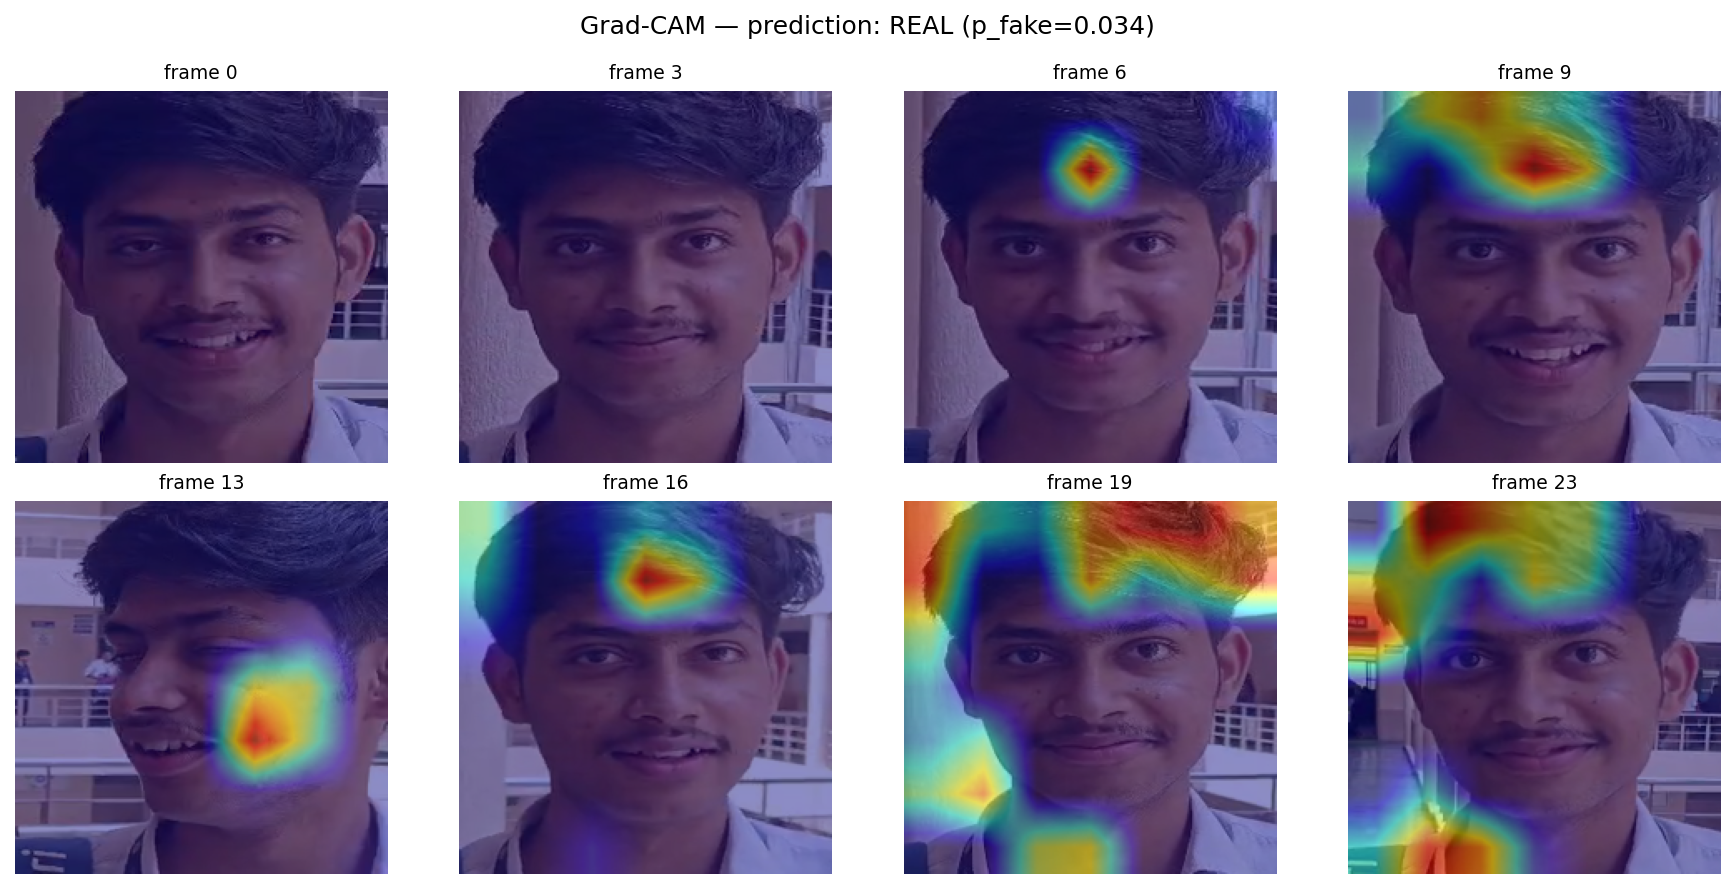
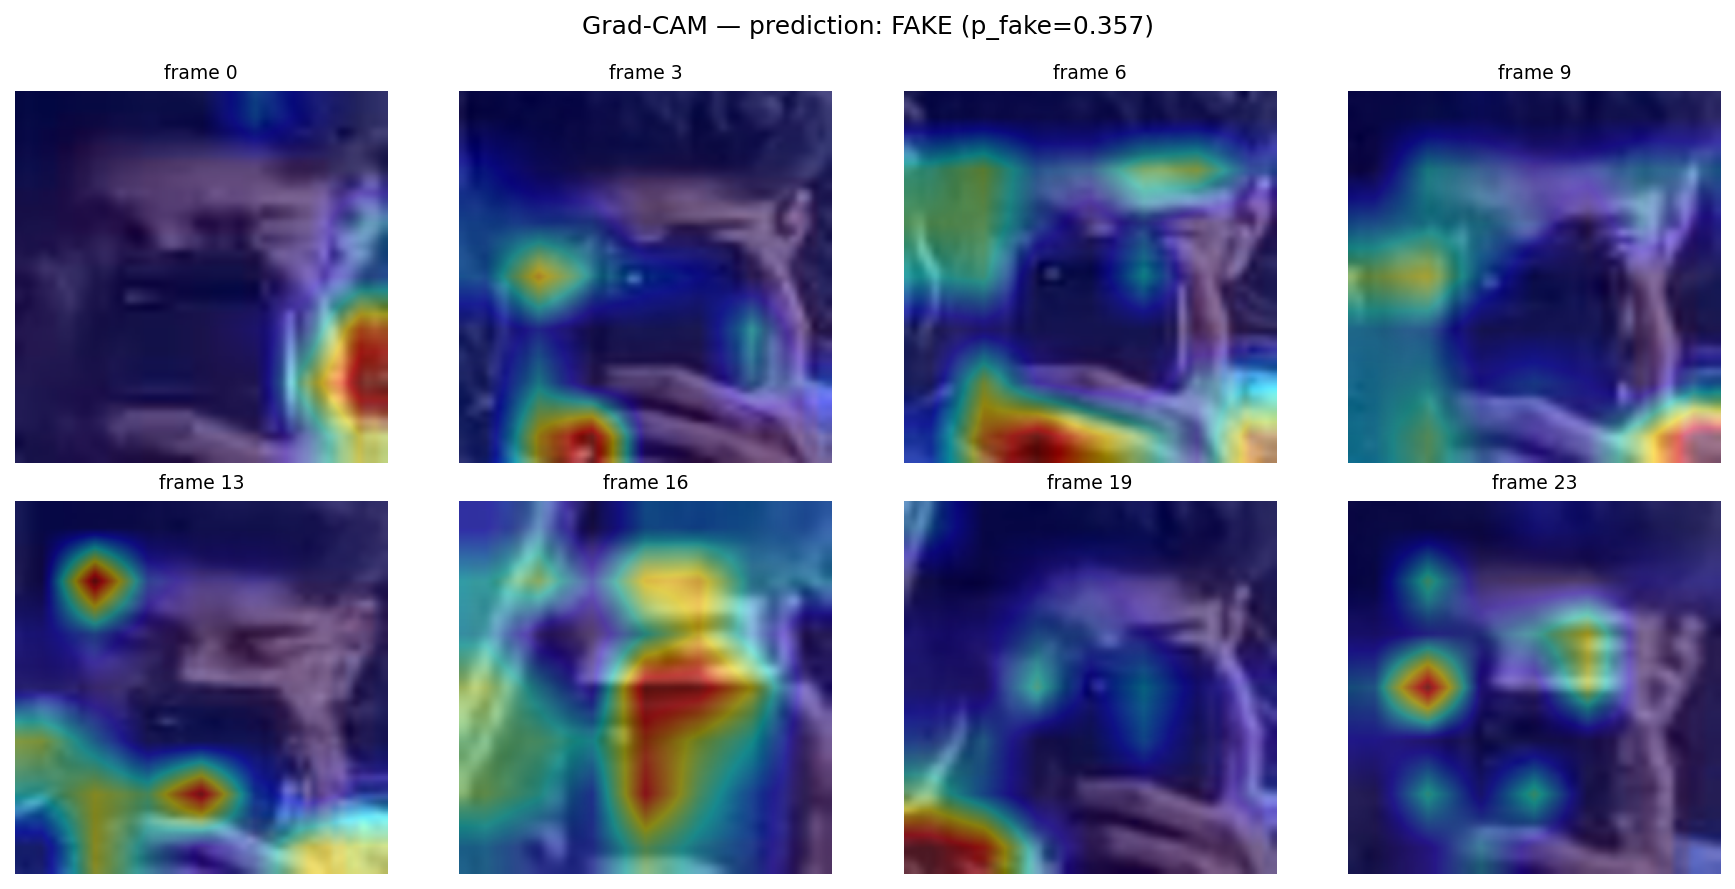
Remove texture-based occlusion check (unreliable on real footage); keep confidence+geometry quality gate

diff --git a/deepfake_video_predict.py b/deepfake_video_predict.py
@@ -117,22 +117,79 @@ def extract_frames(video_path, max_raw_frames=150):
     return frames
 
 
-def detect_and_crop_faces(frames, detector, margin=0.25):
-    """Run MTCNN on each frame, return cropped+aligned face images (PIL).
-    Frames with no detected face are skipped."""
+MIN_DETECTION_CONFIDENCE = 0.95  # MTCNN confidence below this often means a partial/occluded/unclear face
+MIN_QUALITY_FRAME_FRACTION = 0.5  # at least this fraction of extracted frames must be high-quality
+
+
+def _landmarks_geometrically_plausible(landmarks, x1, y1, x2, y2):
+    """Check that MTCNN's 5 landmarks (left_eye, right_eye, nose, mouth_left,
+    mouth_right) form a geometrically sensible face, not just 'somewhere inside
+    the box'. Catches severe distortions (e.g. face mostly turned away, box
+    covering mostly non-face background).
+
+    Known limitation: MTCNN is trained to guess a plausible face shape even
+    under partial occlusion (e.g. a phone covering the nose/mouth while eyes
+    stay visible), so this check alone will NOT catch that kind of occlusion —
+    the geometry still looks normal because MTCNN infers a reasonable position
+    for the hidden landmarks from the visible ones. A pixel-texture-based check
+    was tried and found unreliable here too (occluding objects like phones have
+    plenty of their own visual detail — reflections, bezels, camera lenses —
+    that a generic sharpness measure can't distinguish from real facial detail).
+    Robust occlusion detection would need a dedicated face-quality model; this
+    is noted as a limitation rather than solved here."""
+    left_eye, right_eye, nose, mouth_left, mouth_right = landmarks
+    box_w, box_h = (x2 - x1), (y2 - y1)
+    if box_w <= 0 or box_h <= 0:
+        return False
+
+    tol = 0.05 * box_h
+    eyes_y = (left_eye[1] + right_eye[1]) / 2
+    mouth_y = (mouth_left[1] + mouth_right[1]) / 2
+    if not (eyes_y < nose[1] + tol and nose[1] < mouth_y + tol):
+        return False
+    if not (left_eye[0] < right_eye[0] and mouth_left[0] < mouth_right[0]):
+        return False
+    eye_dist = abs(right_eye[0] - left_eye[0])
+    if not (0.15 * box_w <= eye_dist <= 0.75 * box_w):
+        return False
+    vertical_spread = mouth_y - eyes_y
+    if not (0.10 * box_h <= vertical_spread <= 0.75 * box_h):
+        return False
+    return True
+
+
+def detect_and_crop_faces(frames, detector, margin=0.25, min_confidence=MIN_DETECTION_CONFIDENCE, debug=False):
+    """Run MTCNN on each frame, return cropped+aligned face images (PIL) along with
+    a quality report combining detection confidence and landmark geometry. See
+    _landmarks_geometrically_plausible's docstring for a known limitation: this
+    does not reliably catch partial occlusions where MTCNN can still infer a
+    plausible landmark layout from visible features."""
     face_crops = []
-    for frame in frames:
+    quality_flags = []
+
+    for frame_num, frame in enumerate(frames):
         img = Image.fromarray(frame)
-        boxes, probs = detector.detect(img)
+        boxes, probs, landmarks = detector.detect(img, landmarks=True)
         if boxes is None or len(boxes) == 0:
             continue
 
-        # Use the highest-confidence detected face
         best_idx = int(np.argmax(probs))
         x1, y1, x2, y2 = boxes[best_idx]
+        confidence = float(probs[best_idx])
+        frame_landmarks = landmarks[best_idx] if landmarks is not None else None
 
-        # Add a margin around the tight box so the crop isn't overly tight (matches
-        # typical FaceForensics++-style face-crop conventions)
+        is_high_quality = confidence >= min_confidence
+        geom_ok = None
+        if frame_landmarks is not None:
+            geom_ok = _landmarks_geometrically_plausible(frame_landmarks, x1, y1, x2, y2)
+            is_high_quality = is_high_quality and geom_ok
+        else:
+            is_high_quality = False
+
+        if debug and frame_num < 15:  # print details for the first 15 detected frames only
+            print(f"  [debug] frame {frame_num}: conf={confidence:.4f} geom_ok={geom_ok} "
+                  f"-> quality={is_high_quality}")
+
         w, h = x2 - x1, y2 - y1
         x1 = max(0, x1 - margin * w)
         y1 = max(0, y1 - margin * h)
@@ -141,22 +198,32 @@ def detect_and_crop_faces(frames, detector, margin=0.25):
 
         crop = img.crop((x1, y1, x2, y2))
         face_crops.append(crop)
+        quality_flags.append(is_high_quality)
 
-    return face_crops
+    return face_crops, quality_flags
 
 
-def sample_sequence(face_crops, seq_len=SEQ_LEN):
+def sample_sequence(face_crops, quality_flags, seq_len=SEQ_LEN):
     """Match the training-time sampling strategy: evenly spaced if enough frames,
-    cyclic repeat-padding if too few."""
-    n = len(face_crops)
-    if n >= seq_len:
-        indices = np.linspace(0, n - 1, seq_len).astype(int)
+    cyclic repeat-padding if too few. Prefers high-quality (unoccluded-looking)
+    frames when there are enough of them, since a sequence padded out with
+    low-quality/occluded frames would degrade the prediction unnecessarily."""
+    high_quality_indices = [i for i, q in enumerate(quality_flags) if q]
+
+    if len(high_quality_indices) >= seq_len:
+        pool = high_quality_indices
     else:
-        indices = np.array([i % n for i in range(seq_len)])
-    return [face_crops[i] for i in indices]
+        pool = list(range(len(face_crops)))  # not enough high-quality frames, use all
+
+    n = len(pool)
+    if n >= seq_len:
+        chosen = np.linspace(0, n - 1, seq_len).astype(int)
+    else:
+        chosen = np.array([i % n for i in range(seq_len)])
+    return [face_crops[pool[i]] for i in chosen]
 
 
-def predict(video_path, model_path, threshold=DEFAULT_THRESHOLD, device=None):
+def predict(video_path, model_path, threshold=DEFAULT_THRESHOLD, device=None, debug=False):
     device = device or ("cuda" if torch.cuda.is_available() else "cpu")
     print(f"Using device: {device}")
 
@@ -175,18 +242,30 @@ def predict(video_path, model_path, threshold=DEFAULT_THRESHOLD, device=None):
     print(f"  -> {len(raw_frames)} raw frames extracted")
 
     print("Detecting and cropping faces...")
-    face_crops = detect_and_crop_faces(raw_frames, detector)
-    print(f"  -> {len(face_crops)} frames with a detected face")
+    face_crops, quality_flags = detect_and_crop_faces(raw_frames, detector, debug=debug)
+    n_detected = len(face_crops)
+    n_high_quality = sum(quality_flags)
+    print(f"  -> {n_detected} frames with a detected face")
+    print(f"  -> {n_high_quality} of those are high-quality (clear, unoccluded) detections")
 
-    if len(face_crops) == 0:
+    if n_detected == 0:
         print("\nERROR: No faces detected in this video. Cannot make a prediction.")
         print("Check that the video contains a visible, front-facing person.")
         sys.exit(1)
-    if len(face_crops) < 8:
-        print(f"\nWARNING: Only {len(face_crops)} face frames detected — prediction may be unreliable.")
+
+    quality_fraction = n_high_quality / n_detected if n_detected > 0 else 0.0
+    if quality_fraction < MIN_QUALITY_FRAME_FRACTION:
+        print(f"\nWARNING: Only {quality_fraction:.0%} of detected frames were high-quality "
+              f"(need >= {MIN_QUALITY_FRAME_FRACTION:.0%}).")
+        print("This usually means the face was partially blocked (hand, phone, object), "
+              "poorly lit, or at a steep angle for a significant portion of the video.")
+        print("The prediction below may be unreliable — treat it with caution, or")
+        print("re-record with the full face clearly visible throughout.\n")
+    elif n_detected < 8:
+        print(f"\nWARNING: Only {n_detected} face frames detected — prediction may be unreliable.")
         print("Best results come from clear, well-lit, front-facing video of at least a few seconds.")
 
-    sampled = sample_sequence(face_crops, SEQ_LEN)
+    sampled = sample_sequence(face_crops, quality_flags, SEQ_LEN)
     tensors = [transform_eval(img) for img in sampled]
     sequence_tensor = torch.stack(tensors).unsqueeze(0).to(device)  # (1, seq_len, C, H, W)
 
@@ -201,9 +280,16 @@ def predict(video_path, model_path, threshold=DEFAULT_THRESHOLD, device=None):
     print(f"  Prediction: {label}")
     print(f"  FAKE probability: {prob_fake:.4f}")
     print(f"  Decision threshold: {threshold}")
+    print(f"  Input quality: {n_high_quality}/{n_detected} frames high-quality ({quality_fraction:.0%})")
     print("=" * 40)
 
-    return {"label": label, "fake_probability": prob_fake, "threshold": threshold}
+    return {
+        "label": label,
+        "fake_probability": prob_fake,
+        "threshold": threshold,
+        "quality_fraction": quality_fraction,
+        "reliable_input": quality_fraction >= MIN_QUALITY_FRAME_FRACTION,
+    }
 
 
 if __name__ == "__main__":
@@ -212,6 +298,8 @@ if __name__ == "__main__":
     parser.add_argument("--model", required=True, help="Path to the trained model checkpoint (.pt)")
     parser.add_argument("--threshold", type=float, default=DEFAULT_THRESHOLD,
                          help=f"Decision threshold for FAKE classification (default: {DEFAULT_THRESHOLD})")
+    parser.add_argument("--debug", action="store_true",
+                         help="Print per-frame quality signal values (confidence, geometry check)")
     args = parser.parse_args()
 
-    predict(args.video, args.model, threshold=args.threshold)
+    predict(args.video, args.model, threshold=args.threshold, debug=args.debug)
